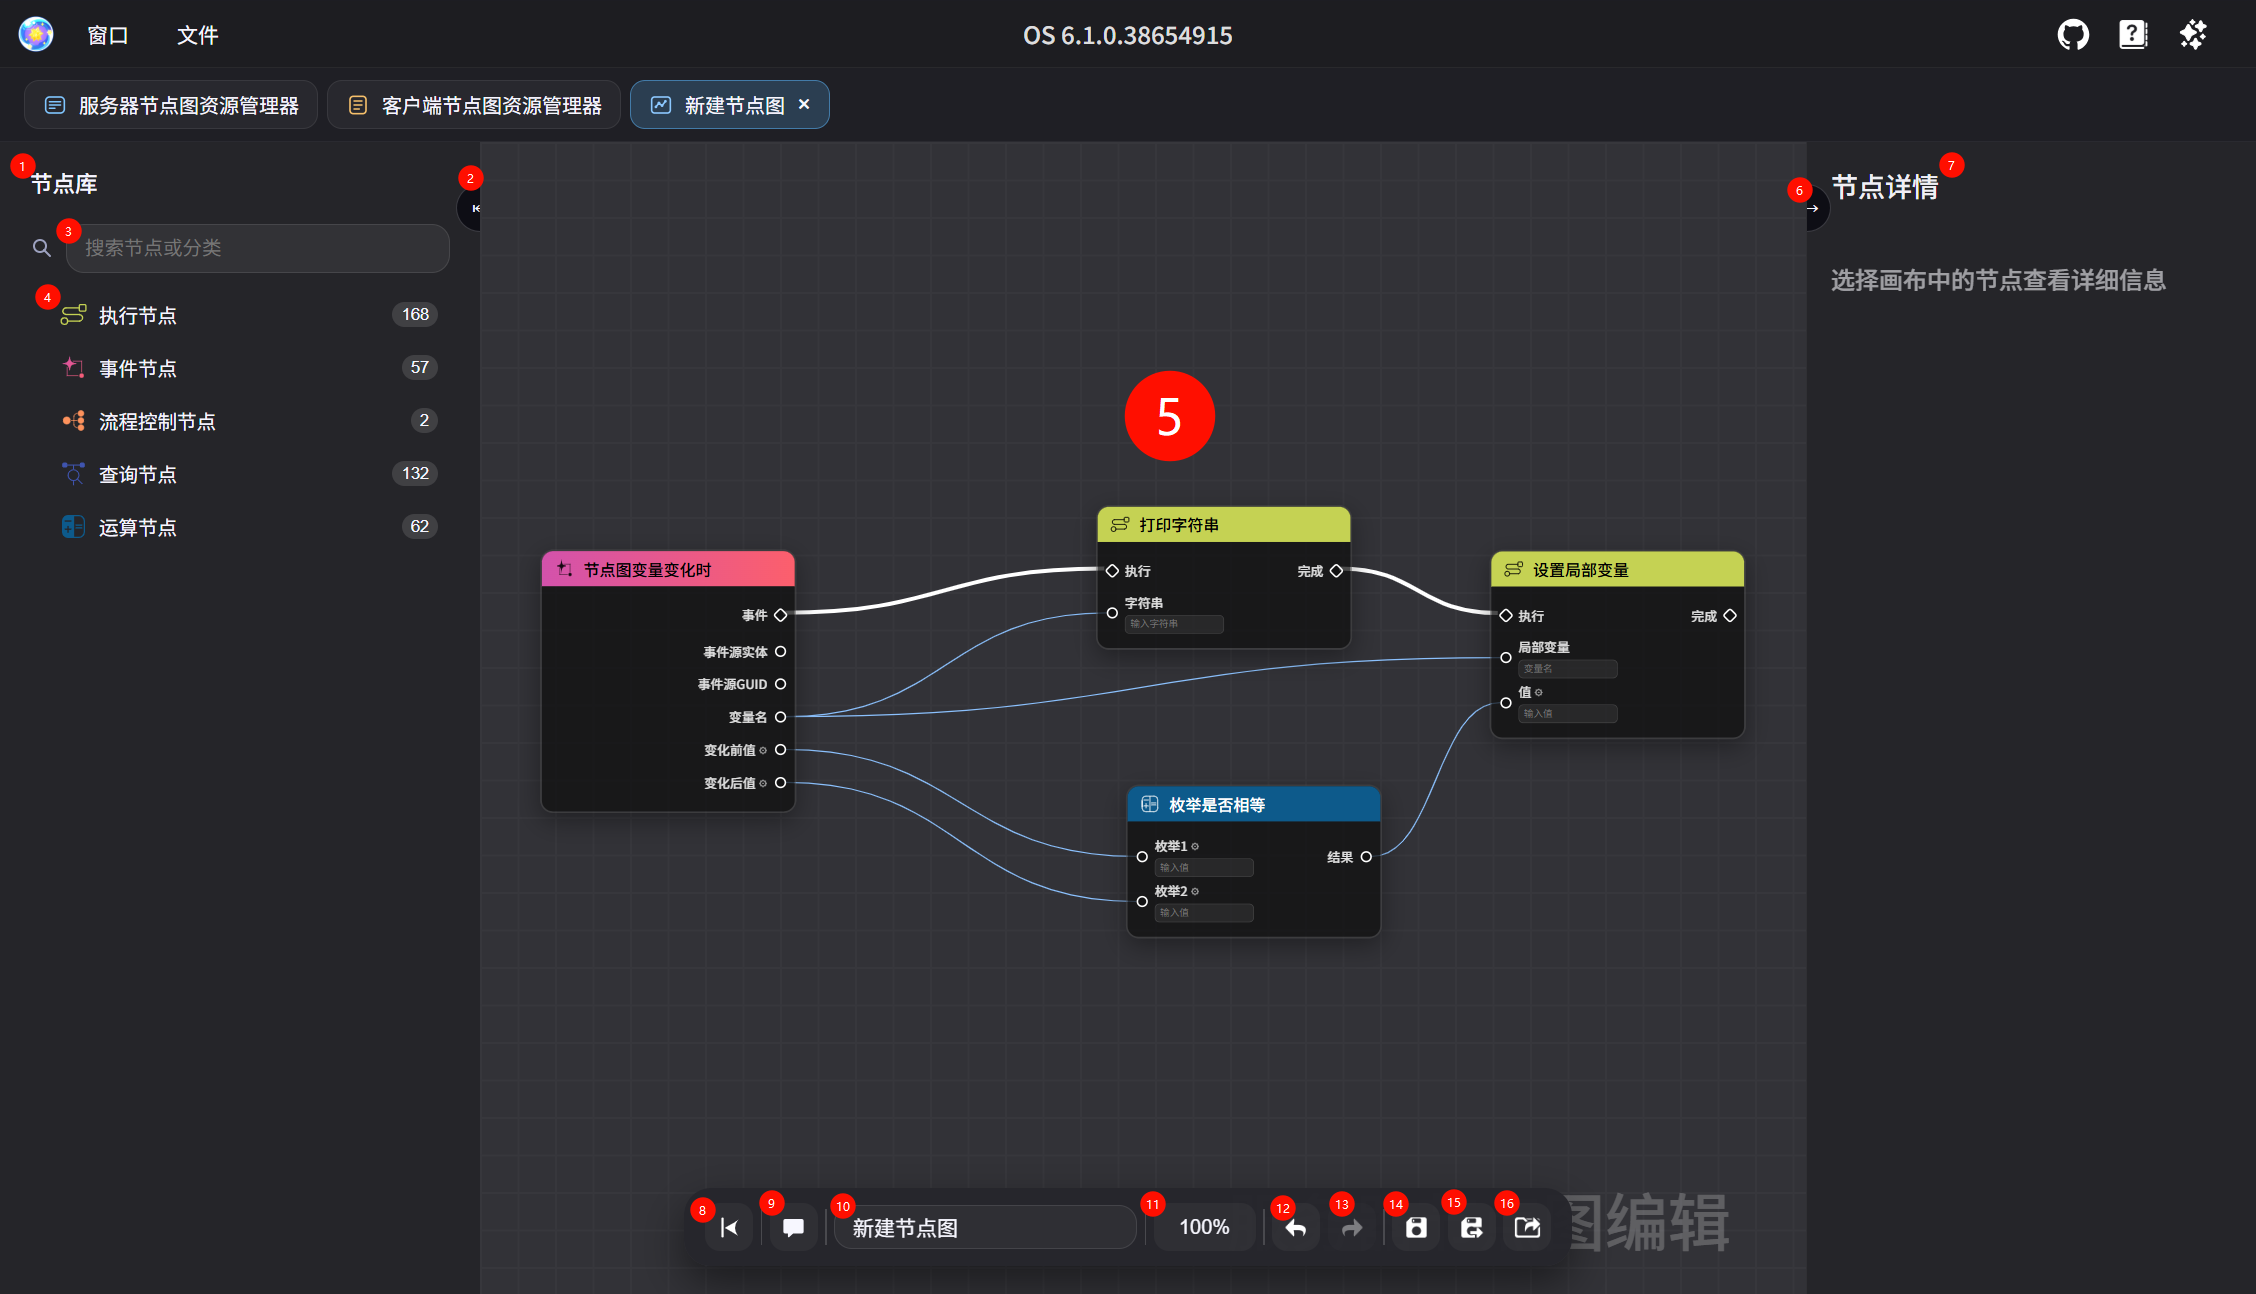
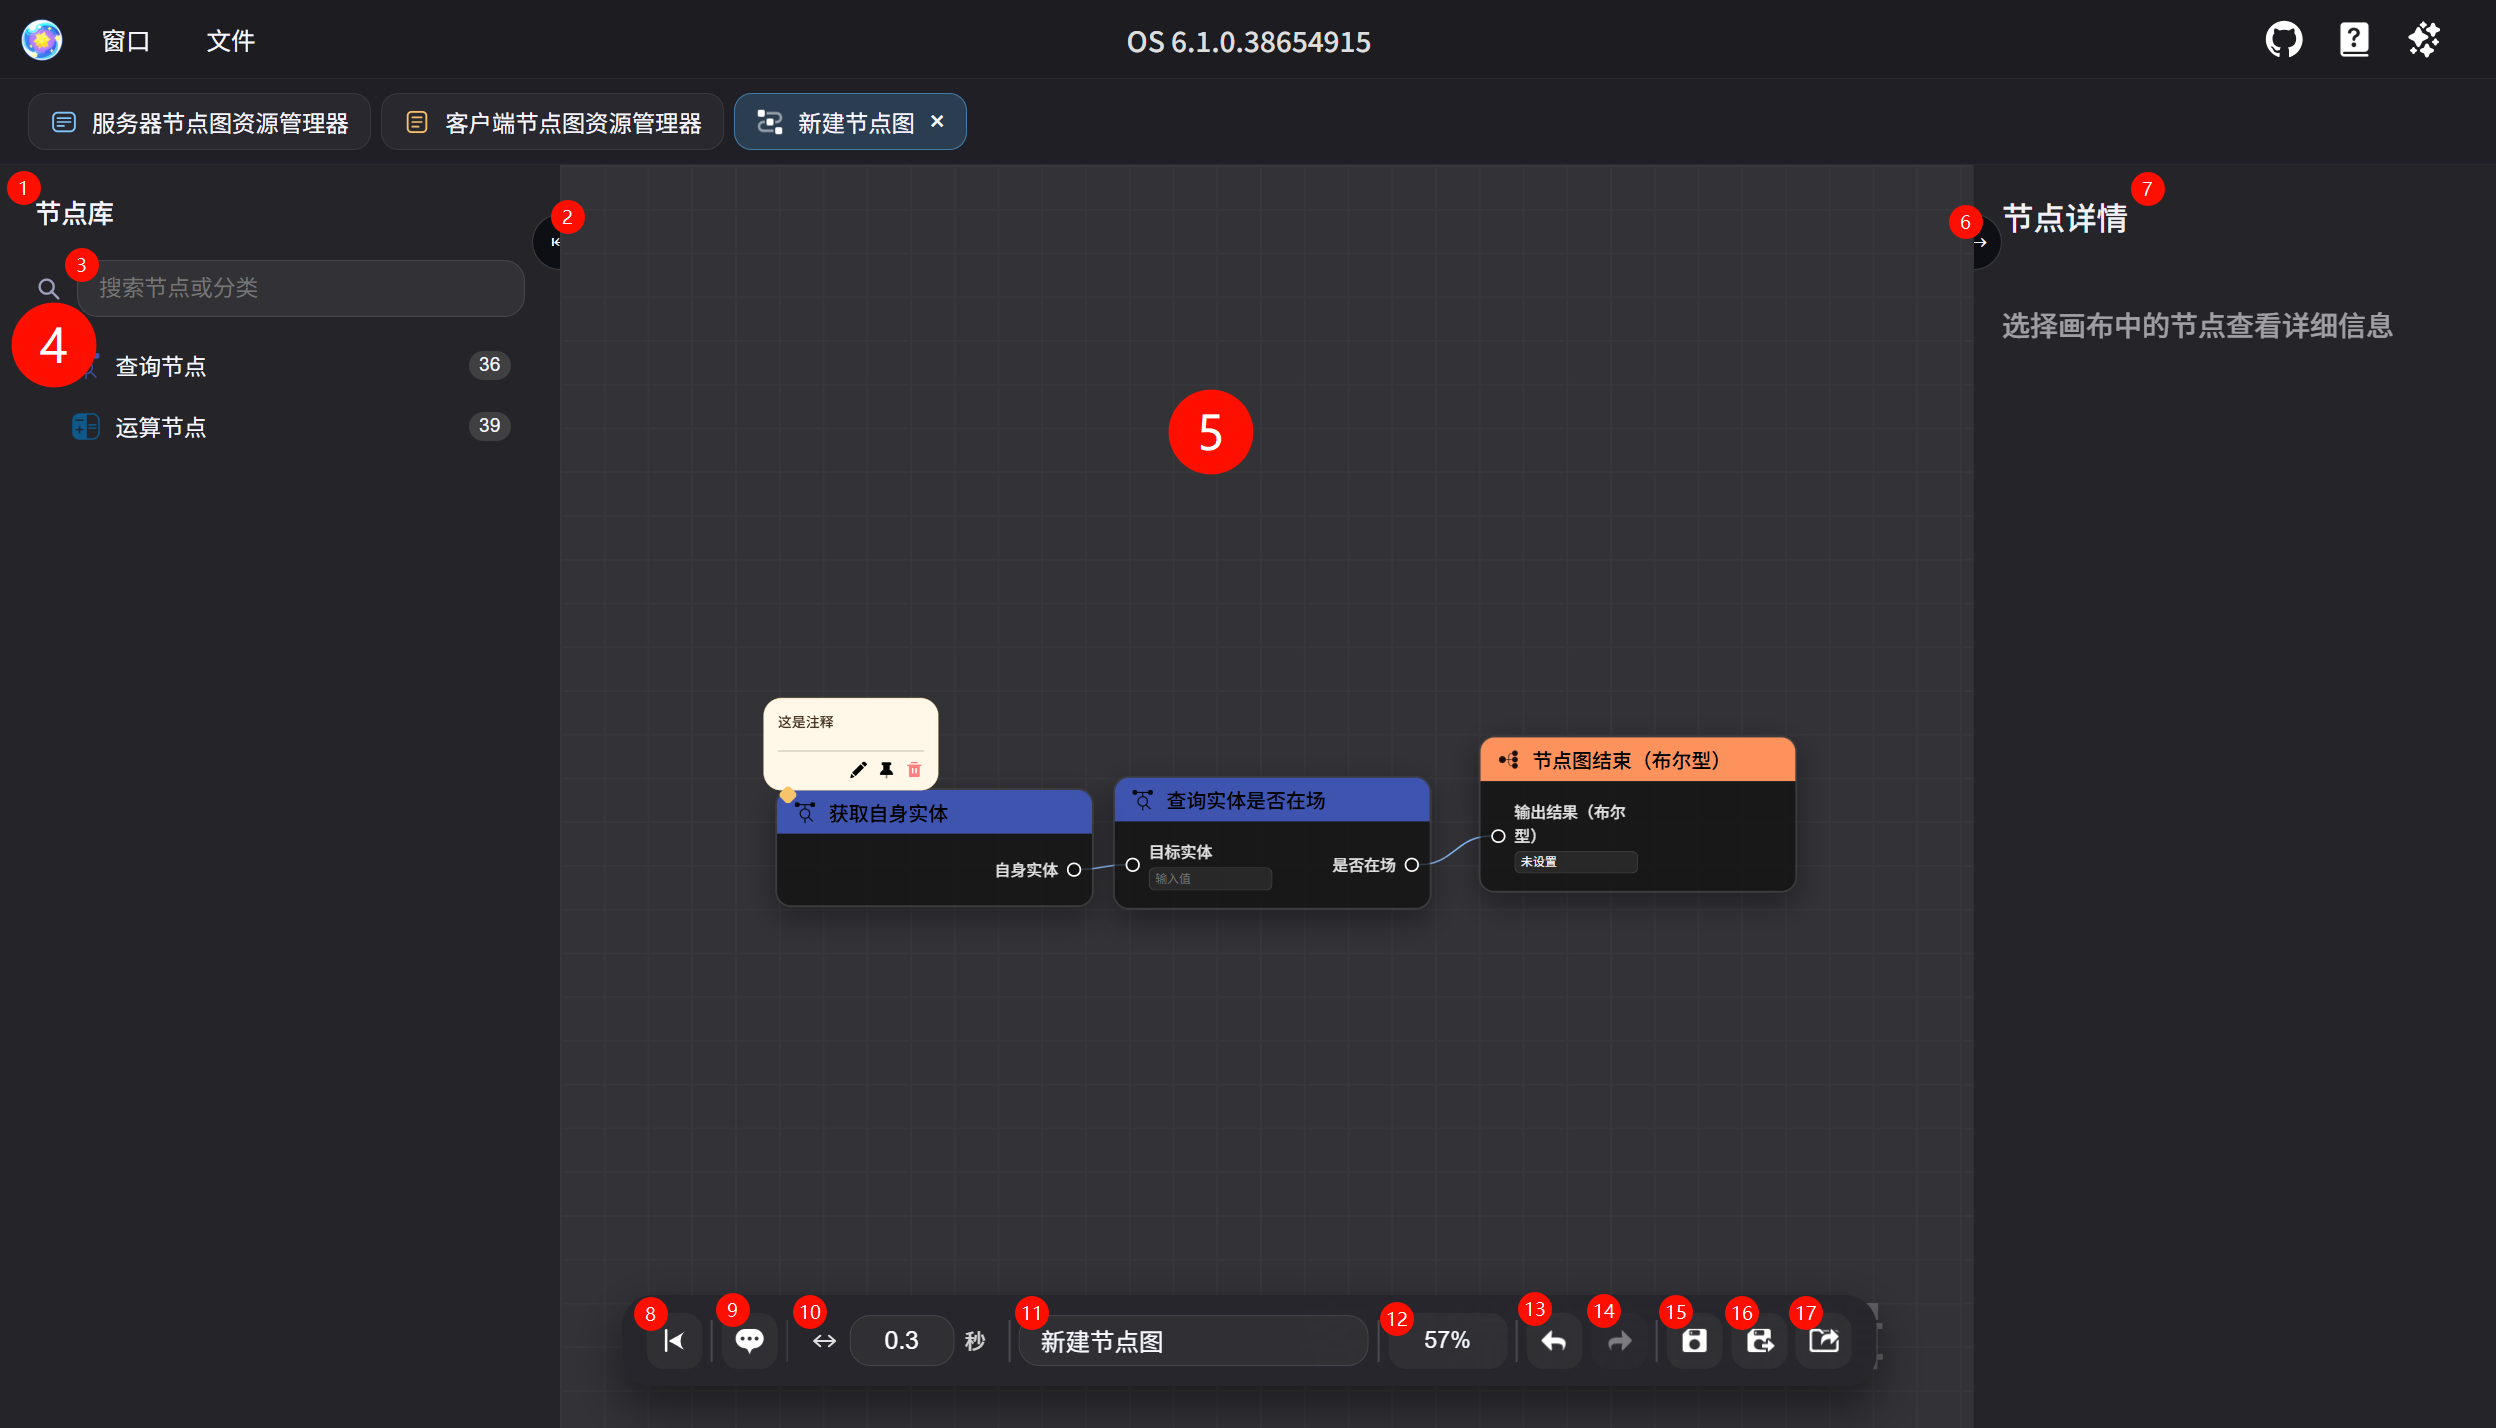
[REL] Update texts

diff --git a/web/src/lib/gil/export.ts b/web/src/lib/gil/export.ts
@@ -28,10 +28,10 @@ function readGilEnvelope(buffer: ArrayBuffer): { payloadLength: number } {
   const payloadLength = view.getUint32(16, false);
 
   if (version !== 1 || magic !== MAGIC || constant !== 2) {
-    throw new Error('无法识别的.gil文件头，请使用正式版原神导出 .gil 存档。');
+    throw new Error('无法识别的.gil文件头，请使用正式版原神导出.gil存档。');
   }
   if (payloadLength + HEADER_SIZE > buffer.byteLength) {
-    throw new Error('模板.gil文件的长度信息异常。');
+    throw new Error('模板.gil文件的长度信息异常，请重新从原神导出。');
   }
   // declaredSize is totalLengthMinusHeader in samples; keep for reference
   const expectedLength = declaredSize + 4;
@@ -60,7 +60,7 @@ export async function exportGraphsToGil(options: GilExportOptions): Promise<GilE
   readGilEnvelope(templateGil);
 
   throw new Error(
-    'gil 导出映射尚未完成（节点图格式仍在反推），请暂时使用 Zip 导出。\n' +
+    'gil 导出映射尚未完成（节点图格式仍在反推），请暂时使用`导出为.zip项目`。\n' +
       '详见 docs/gil-node-format.md 了解当前进展。',
   );
 }

diff --git a/README.md b/README.md
@@ -132,14 +132,14 @@ npm run dev
   7. 点击`⇥`按钮可收起节点详情窗口
   8. 折叠操作栏
   9. 进入注释模式：单击画布区域的节点或空白处添加注释。
-  10. 编辑此节点图的名称
-  11. 调整画布缩放
-  12. 撤销上一步操作（Ctrl+Z）
-  13. 重做上一步操作（Ctrl+Shift+Z）
-  14. 保存此次所有编辑过的节点图到浏览器本地储存（在任何节点图标签使用`Ctrl+S`）
-  15. 另存为：复制此节点图到当前项目的其他路径
-  16. 导出此节点图为 `.server.json` / `.client.json` 文件
-  17. (未在图内，介于9和10之间，在客户端节点图编辑器可见)调整执行间隔时间，无任何用处，仅用于还原官方编辑器。
+  10. 调整执行间隔时间
+  11. 编辑此节点图的名称
+  12. 调整画布缩放
+  13. 撤销上一步操作（Ctrl+Z）
+  14. 重做上一步操作（Ctrl+Shift+Z）
+  15. 保存此次所有编辑过的节点图到浏览器本地储存（在任何节点图标签使用`Ctrl+S`）
+  16. 另存为：复制此节点图到当前项目的其他路径
+  17. 导出此节点图为 `.server.json` / `.client.json` 文件
 
 ## 额外页面
 
